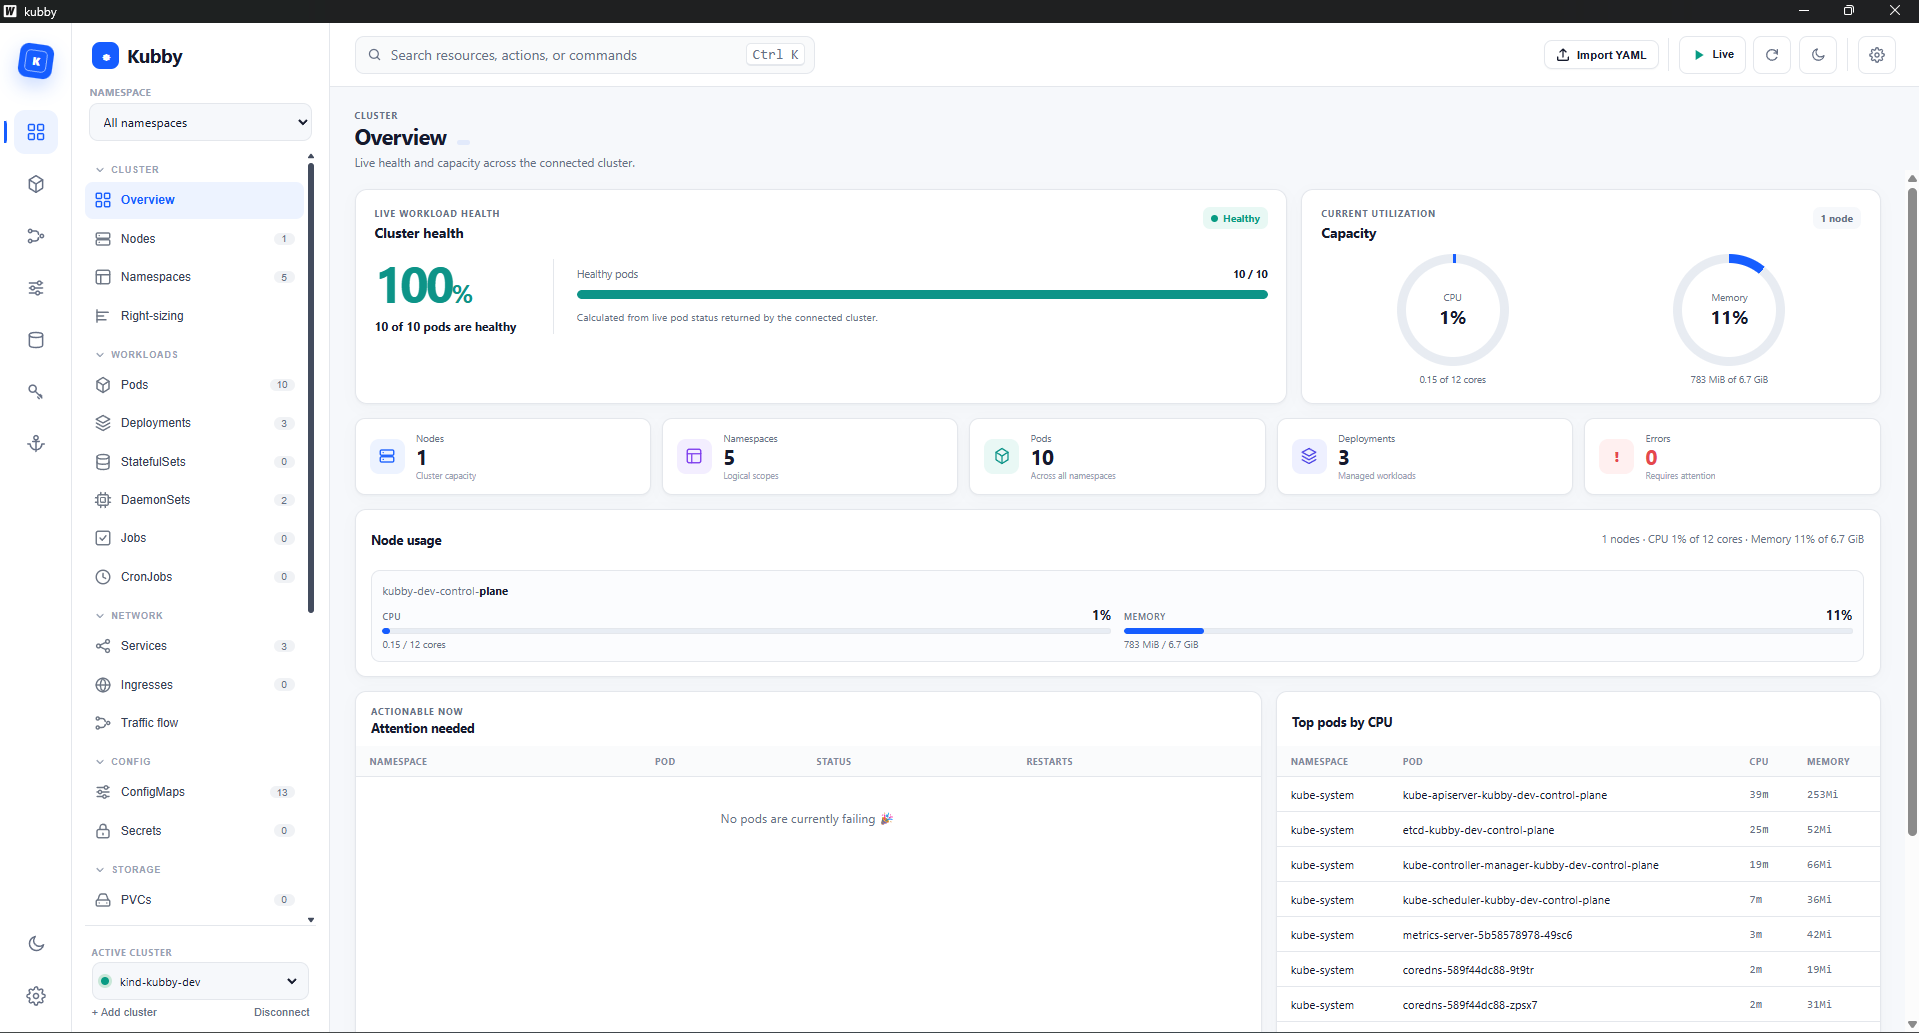
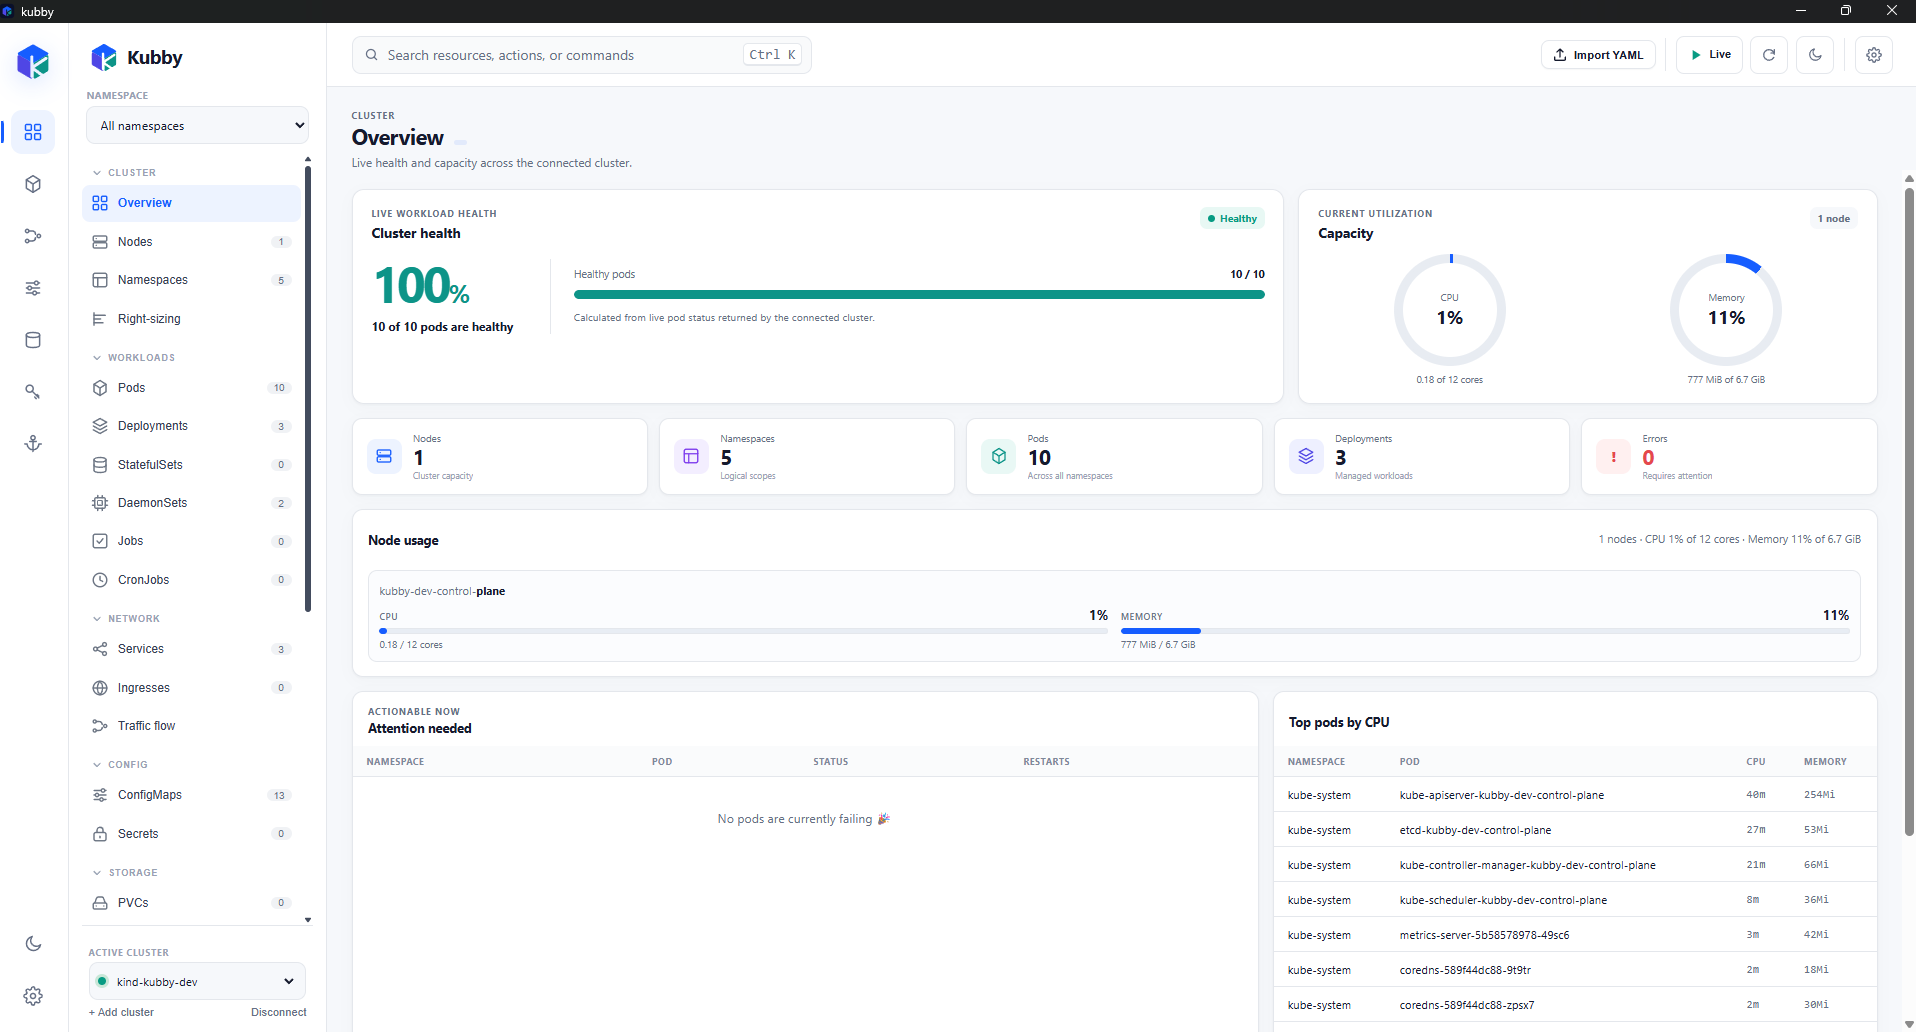
feat: add Kubby K-Cube brand identity

diff --git a/src/kubby/frontend/src/option-b.css b/src/kubby/frontend/src/option-b.css
@@ -99,14 +99,8 @@ body {
 :root[data-theme="dark"] .tabs { background: #171e2a; border-color: var(--line); }
 .welcome-brand h1 { font-size: 2rem; color: var(--ink); }
 .welcome-brand .brand-logo {
-    display: grid;
-    place-items: center;
-    width: 38px;
-    height: 38px;
-    border-radius: 11px;
-    background: var(--blue);
-    color: white;
-    font-size: 1.35rem;
+    width: 44px;
+    height: 44px;
 }
 .welcome-sub { margin: 0.65rem 0 1.75rem; line-height: 1.55; }
 .tabs { background: #f0f3f8; border: 1px solid #e8ebf1; }
@@ -136,27 +130,12 @@ body {
     margin-bottom: 25px;
 }
 .rail-brand-mark {
-    position: relative;
-    display: grid;
-    place-items: center;
-    width: 34px;
-    height: 34px;
-    border-radius: 9px;
-    background: var(--blue);
-    color: white;
-    font-size: 0.78rem;
-    font-weight: 800;
-    box-shadow: 0 8px 20px rgba(22, 93, 255, 0.23);
-    transform: rotate(8deg);
+    display: block;
+    width: 38px;
+    height: 38px;
+    object-fit: contain;
+    filter: drop-shadow(0 7px 12px rgba(22, 93, 255, 0.2));
 }
-.rail-brand-mark::after {
-    content: "";
-    position: absolute;
-    inset: 6px;
-    border: 1px solid rgba(255, 255, 255, 0.55);
-    border-radius: 5px;
-}
-.rail-brand-mark { line-height: 1; }
 .rail-nav,
 .rail-bottom { display: flex; flex-direction: column; align-items: center; gap: 8px; width: 100%; }
 .rail-bottom { margin-top: auto; }
@@ -204,14 +183,8 @@ body {
 }
 .brand { padding: 0 0.55rem 1.2rem; color: var(--ink); font-size: 1.35rem; }
 .brand .brand-logo {
-    display: grid;
-    place-items: center;
-    width: 27px;
-    height: 27px;
-    border-radius: 8px;
-    background: var(--blue);
-    color: white;
-    font-size: 1rem;
+    width: 30px;
+    height: 30px;
 }
 .brand-name { color: var(--ink); font-weight: 750; letter-spacing: -0.025em; }
 .ns-picker {

diff --git a/src/kubby/frontend/index.html b/src/kubby/frontend/index.html
@@ -3,6 +3,7 @@
 <head>
     <meta charset="UTF-8"/>
     <meta content="width=device-width, initial-scale=1.0" name="viewport"/>
+    <link rel="icon" type="image/svg+xml" href="/src/assets/images/kubby-mark.svg"/>
     <title>Kubby</title>
 </head>
 <body>
@@ -62,7 +63,7 @@
     <div id="welcome" class="welcome">
         <div class="welcome-card">
             <div class="welcome-brand">
-                <span class="brand-logo">⎈</span>
+                <img class="brand-logo" src="/src/assets/images/kubby-mark.svg" alt=""/>
                 <h1>Kubby</h1>
             </div>
             <p class="welcome-sub">A personal Kubernetes cluster manager. Load a kubeconfig to get started.</p>
@@ -108,7 +109,7 @@
     <div id="dashboard" class="dashboard" hidden>
         <nav class="app-rail" aria-label="Primary navigation">
             <div class="rail-brand" aria-label="Kubby">
-                <span class="rail-brand-mark">K</span>
+                <img class="rail-brand-mark" src="/src/assets/images/kubby-mark.svg" alt=""/>
             </div>
             <div class="rail-nav">
                 <button class="rail-button active" data-rail-view="overview" title="Overview" aria-label="Overview"><svg class="ico"><use href="#i-overview"/></svg></button>
@@ -127,7 +128,7 @@
 
         <aside class="sidebar">
             <div class="brand">
-                <span class="brand-logo">⎈</span>
+                <img class="brand-logo" src="/src/assets/images/kubby-mark.svg" alt=""/>
                 <span class="brand-name">Kubby</span>
             </div>
 

diff --git a/src/kubby/frontend/src/app.css b/src/kubby/frontend/src/app.css
@@ -204,7 +204,7 @@ select:focus, textarea:focus { outline: 2px solid var(--blue); outline-offset: -
     justify-content: center;
 }
 .welcome-brand h1 { margin: 0; font-size: 1.7rem; letter-spacing: -0.02em; }
-.brand-logo { color: var(--blue); font-size: 1.6rem; }
+.brand-logo { display: block; object-fit: contain; }
 
 .welcome-sub {
     text-align: center;

diff --git a/src/kubby/docs/frontend.md b/src/kubby/docs/frontend.md
@@ -171,6 +171,14 @@ came out double-spaced. Both diff renderers now join with `''` — see the comme
 Icons are a single inline **SVG sprite** in `index.html`, referenced with
 `<use href="#i-…">`.
 
+## Brand assets
+
+`frontend/src/assets/images/kubby-mark.svg` is the canonical K-Cube brand mark
+used by the Welcome screen, app rail, sidebar, development favicon, and root
+README. Keep the mark vector-based in the UI; `build/appicon.png` and
+`build/windows/icon.ico` are generated raster derivatives for Wails packaging.
+Do not replace the mark with the concept-board raster or the old Wails logo.
+
 ## Chrome
 
 - Sidebar groups are an **accordion**, collapsed state persisted in `localStorage`.

diff --git a/README.md b/README.md
@@ -1,5 +1,7 @@
 <div align="center">
 
+<img src="src/kubby/frontend/src/assets/images/kubby-mark.svg" alt="Kubby K-Cube logo" width="104">
+
 # Kubby
 
 ### A personal Kubernetes desktop app that helps you see, understand, and operate your cluster.
